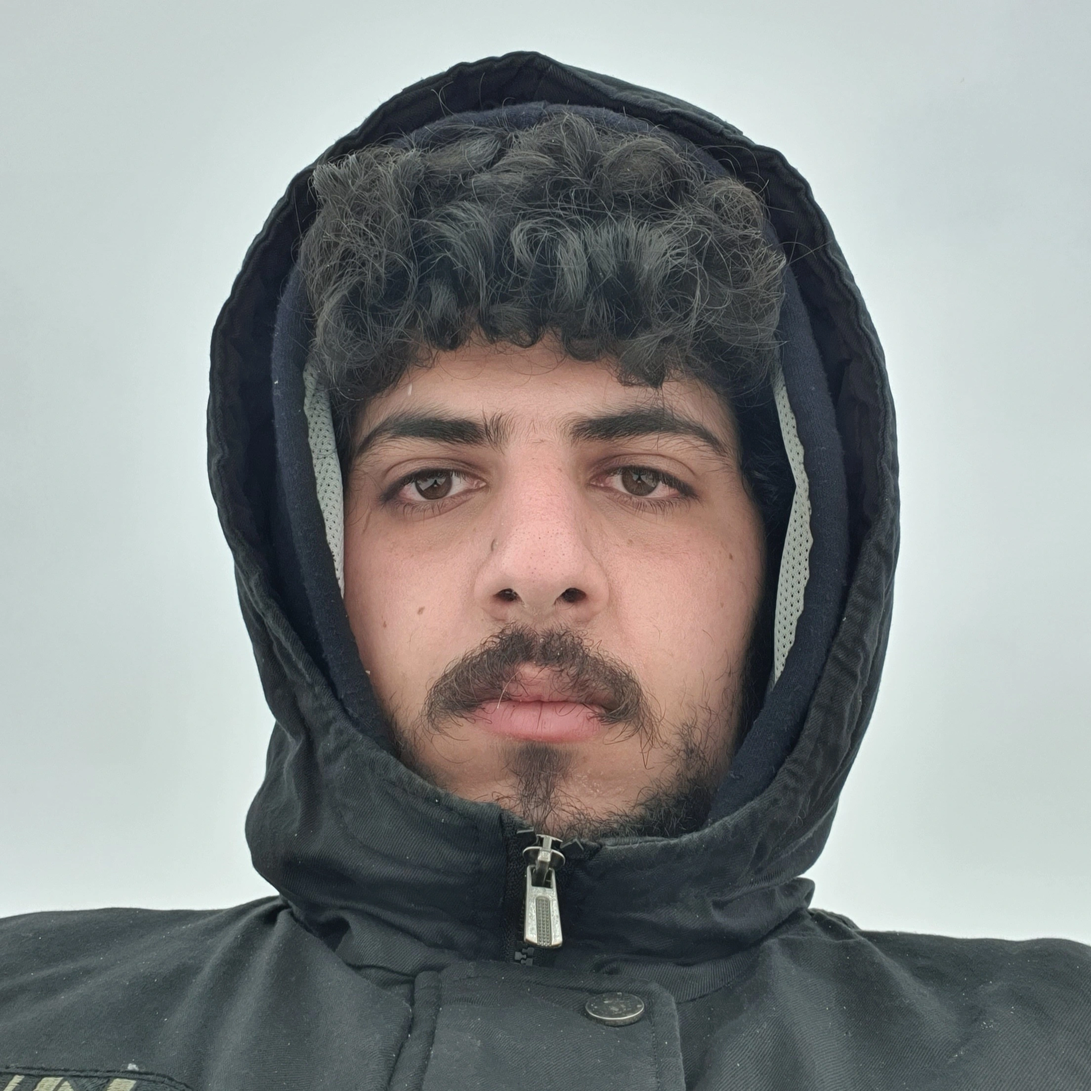
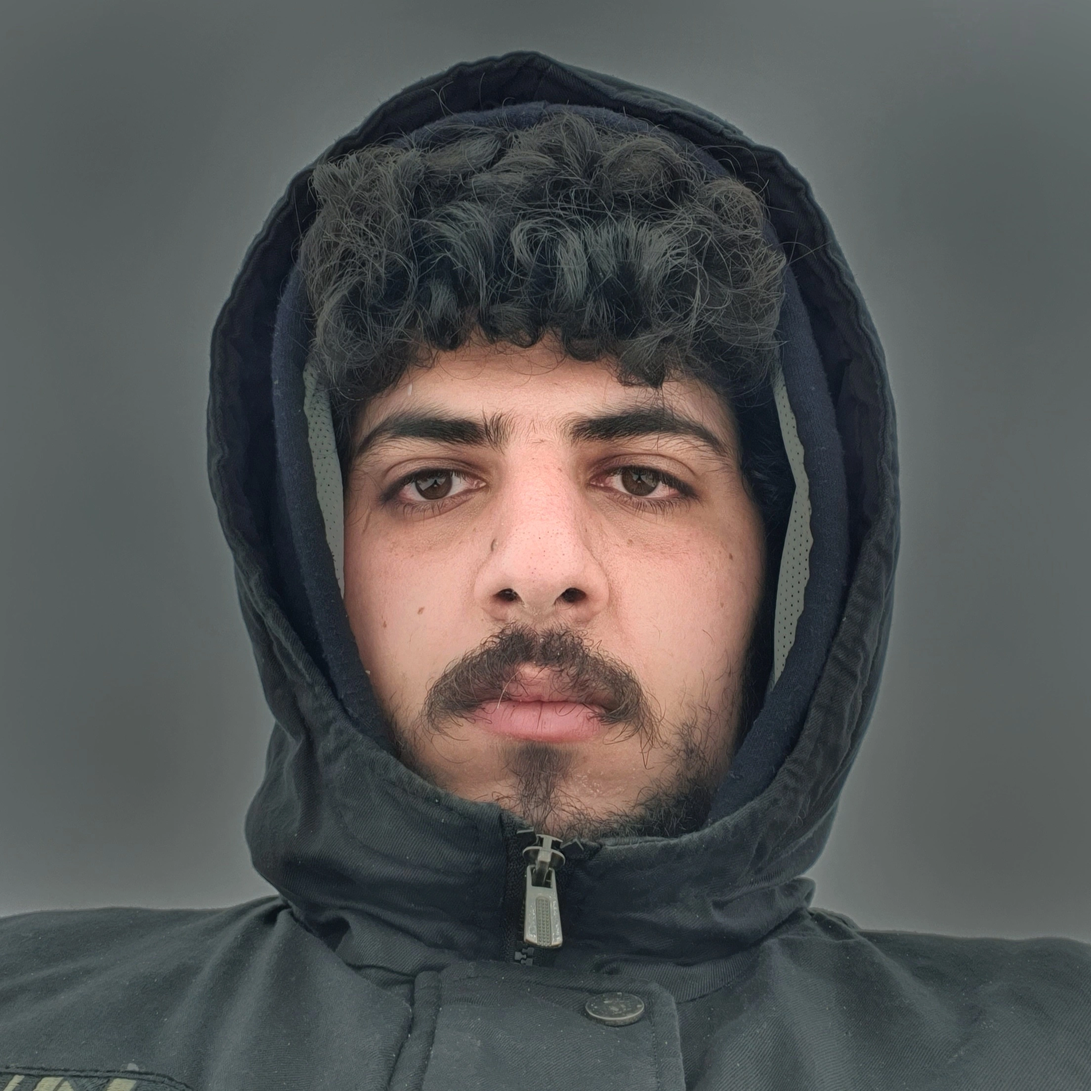
new pfp😀

diff --git a/assets/css/style.css b/assets/css/style.css
@@ -908,7 +908,7 @@ p {
   height: 40vh;
   width: 40vh;
   border-radius: 360px !important;
-  border: grey;
+  border: white;
   border-width: 5px;
   border-style: solid;
 }
